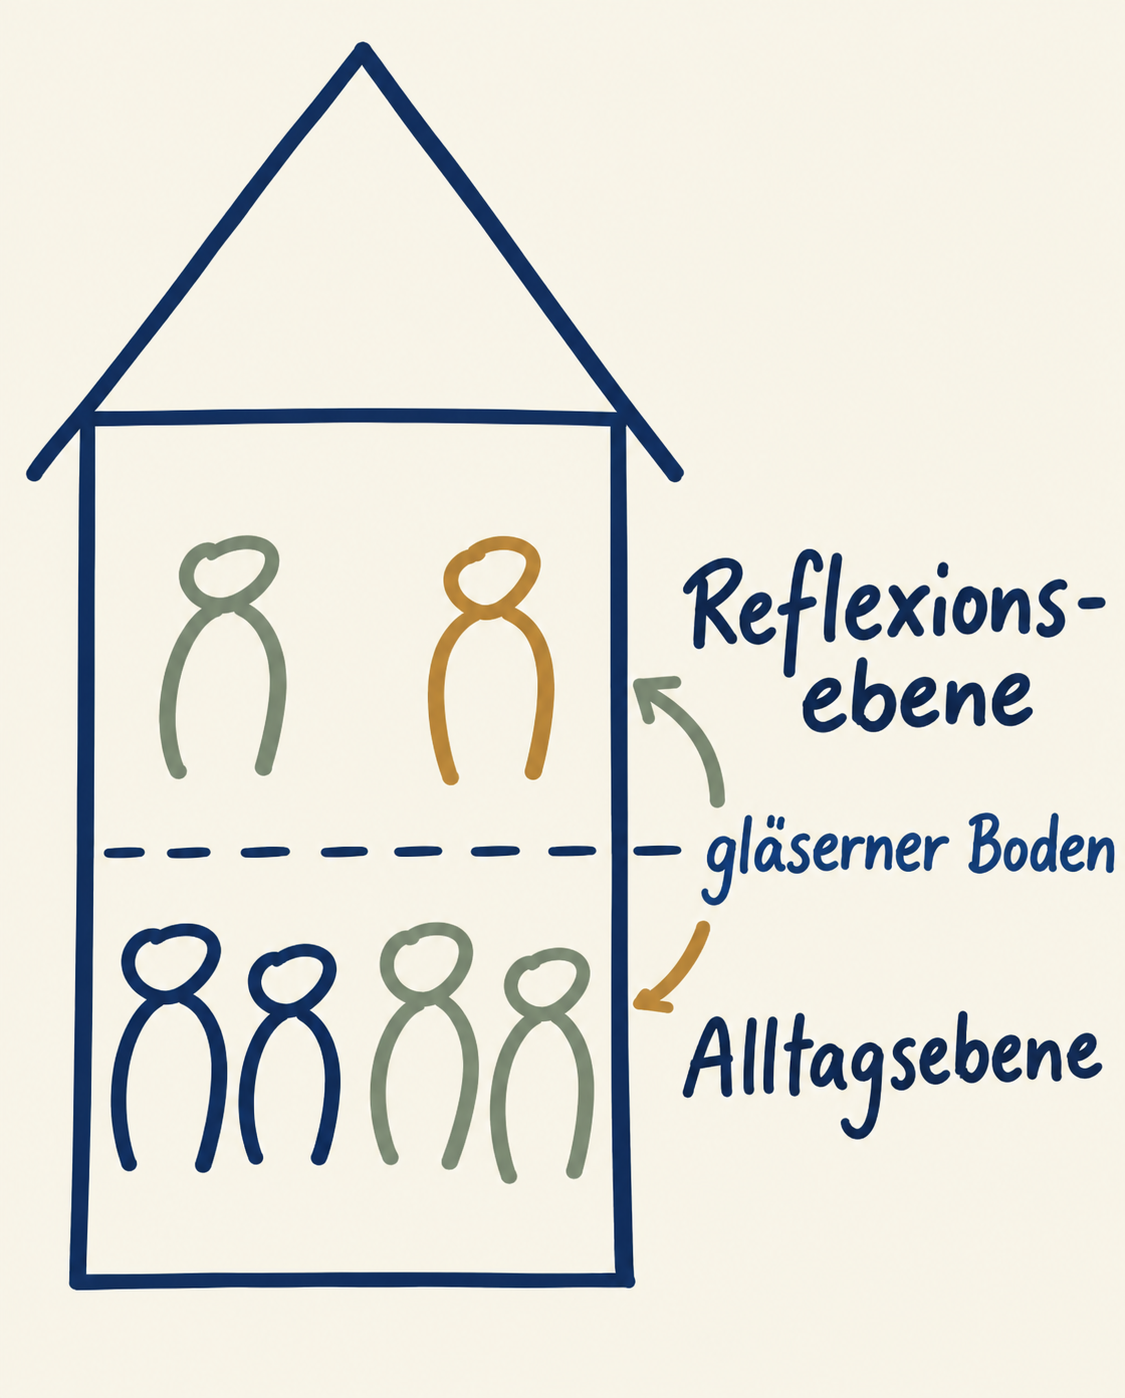
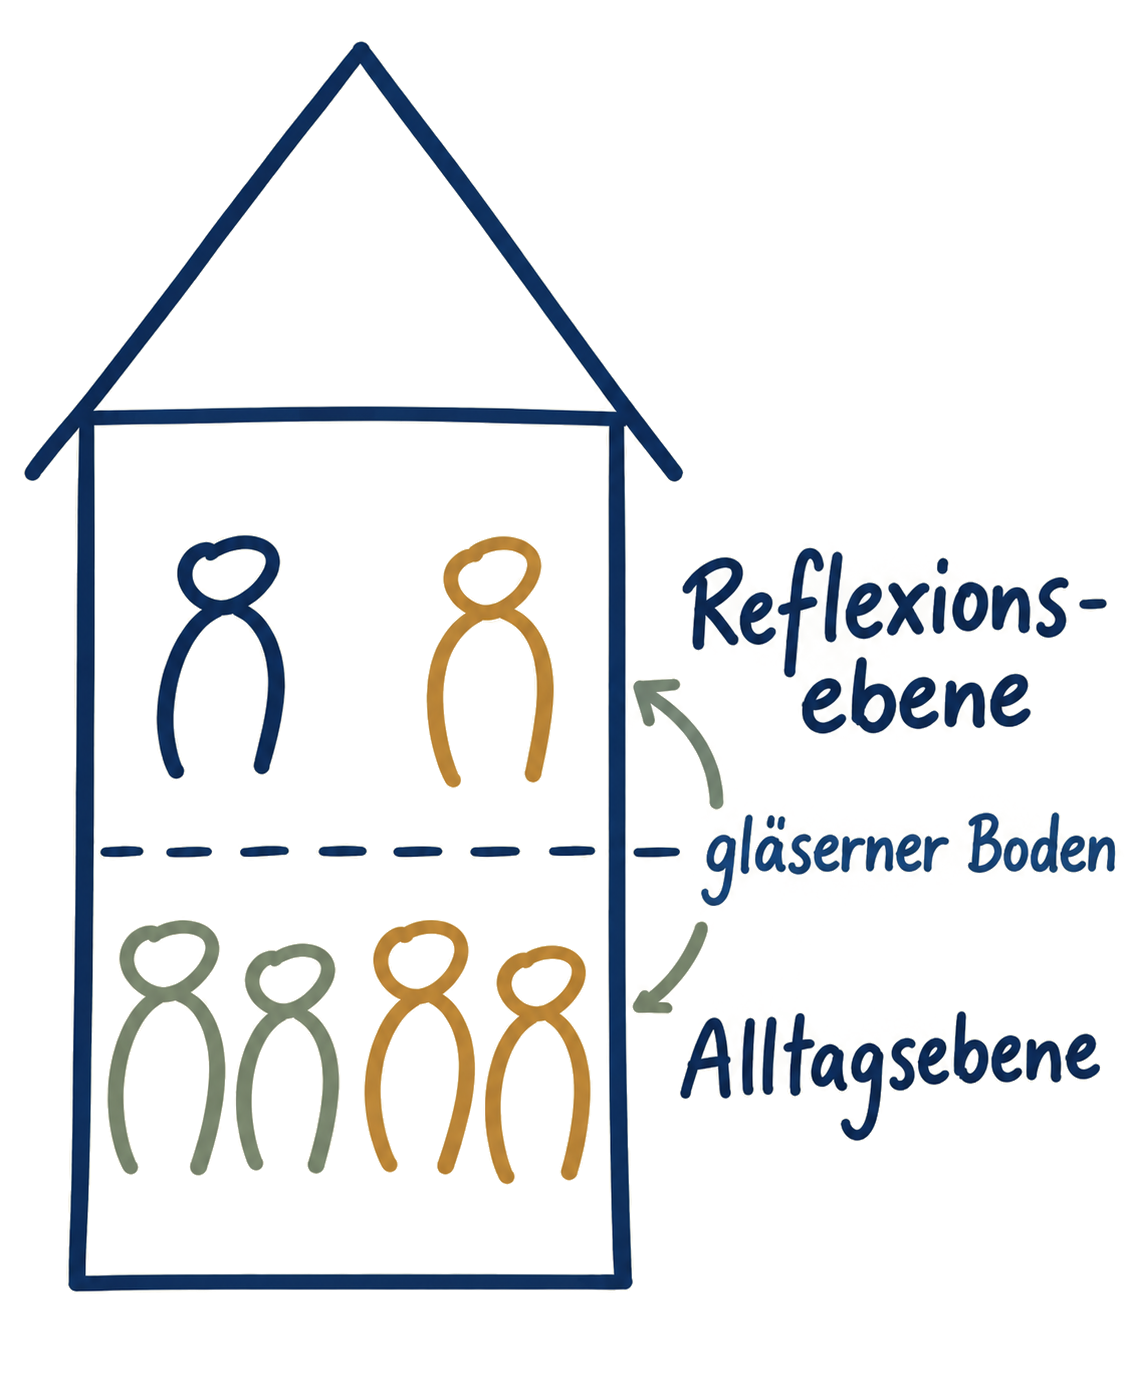
Coaching 09

diff --git a/src/assets/css/style.css b/src/assets/css/style.css
@@ -1145,14 +1145,16 @@ body.on-contact .snap-dots button.is-active{background:#cdd8cb;}
    Spezifität wie .sv-worum-a p, daher zusätzlich über die Klasse selbst
    qualifiziert, damit margin-top zuverlässig greift. */
 .sv-worum-a p.sv-worum-last{margin-top:18px;}
-/* Kleiner weißer Rahmen in der Rechteckform des Fotos (statt einer
-   größeren Kartenfläche mit Hintergrund) -- die Box umschließt das Bild
-   eng (display:inline-block, justify-self:center), die Bildgröße steuert
-   allein die Höhe von .sv-haus-card img je Breakpoint. */
+/* Ehemals ein weißer Kartenrahmen (Hintergrund/Padding/Box-Shadow) um das
+   Bild -- passend, solange die Grafik selbst einen undurchsichtigen
+   Hintergrund hatte. Die Haus-Grafik ist jetzt eine freigestellte PNG mit
+   echter Transparenz (wie .sv-ebenen-img in Abschnitt 4), daher entfaellt
+   die Kartenoptik hier bewusst, damit sich das Bild randlos in den
+   Seitenhintergrund einfuegt. Die Box umschliesst das Bild weiterhin eng
+   (display:inline-block, justify-self:center), die Bildgroesse steuert
+   allein die Hoehe von .sv-haus-card img je Breakpoint. */
 .sv-haus-card{
   display:inline-block;justify-self:center;max-width:100%;
-  background:var(--card);border-radius:14px;padding:8px;
-  box-shadow:0 20px 40px -22px rgba(20,20,20,.35);
 }
 /* Bildbox exakt um 90° gedreht auf Abschnitt-1-Größe gebracht: Abschnitt 1
    (Hero, Querformat) ist jetzt auf jeder Breite calc(37.8vw - 18px) breit
@@ -1170,7 +1172,7 @@ body.on-contact .snap-dots button.is-active{background:#cdd8cb;}
    Ränder oben/unten, ähnlich knapp wie links/rechts. Die Beschriftungen
    (Reflexionsebene, gläserner Boden, Alltagsebene) rechts im Bild bleiben
    dadurch weiterhin unbeschnitten sichtbar. */
-.sv-haus-card img{display:block;width:56.25vw;height:auto;aspect-ratio:1125/1398;object-fit:contain;border-radius:8px;}
+.sv-haus-card img{display:block;width:56.25vw;height:auto;aspect-ratio:1125/1398;object-fit:contain;}
 /* Bildunterschrift für die Haus-Grafik, im gleichen Stil wie bei den
    anderen Grafiken (.sv-ebenen-credit, .co-twocol-caption): kleine kursive
    Box mit dünnem Rahmen, mittig unter dem Bild. .sv-haus-card ist (anders
@@ -1194,9 +1196,24 @@ body.on-contact .snap-dots button.is-active{background:#cdd8cb;}
     display:grid;grid-template-columns:1.3fr 1fr;column-gap:56px;row-gap:16px;align-items:center;
     grid-template-areas:"top img" "bottom img";
   }
-  .sv-worum-text-top{grid-area:top;}
+  .sv-worum-text-top{grid-area:top;
+    /* align-items:center (oben) zentriert Grid-Items standardmaessig
+       innerhalb ihrer Zeile. Da die Bildspalte (img) beide Zeilen
+       ueberspannt und hoeher ist als Ueberschrift+Text zusammen, werden
+       Zeile 1 (top) und Zeile 2 (bottom) automatisch aufgebläht, damit
+       beide zusammen die Bildhoehe ergeben -- der zentrierte Text
+       "schwimmt" dadurch mit Luft ueber und unter sich in seiner Zeile,
+       wodurch der eigentlich beabsichtigte 16px-Abstand (row-gap, siehe
+       unten) real auf ca. 49px anwuchs. Fix: dieses Element an den
+       UNTEREN Rand seiner Zeile andocken, damit nur noch der row-gap
+       zaehlt. */
+    align-self:end;
+  }
   .sv-haus-card{grid-area:img;}
-  .sv-worum-text-bottom{grid-area:bottom;}
+  .sv-worum-text-bottom{grid-area:bottom;
+    /* Gegenstueck zu oben: an den OBEREN Rand der Zeile andocken. */
+    align-self:start;
+  }
   .sv-haus-card img{width:calc(23.625vw - 11.25px);}
   /* Abstand Überschrift->Text auf denselben Wert wie Eyebrow->Überschrift
      (16px) verkürzt: der bisherige Abstand kam aus margin-bottom (20px)
@@ -1501,9 +1518,17 @@ body.on-contact .snap-dots button.is-active{background:#cdd8cb;}
     display:grid;grid-template-columns:1.3fr 1fr;column-gap:56px;row-gap:16px;align-items:center;
     grid-template-areas:"top img" "bottom img";
   }
-  .co-worum-text-top{grid-area:top;}
+  .co-worum-text-top{grid-area:top;
+    /* siehe ausfuehrlichen Kommentar bei .sv-worum-text-top: align-items:
+       center blaeht sonst beide Text-Zeilen auf Bildhoehe auf und
+       zentriert den (kuerzeren) Text darin, wodurch der beabsichtigte
+       16px-Abstand zur naechsten Zeile real auf ca. 49px anwaechst. */
+    align-self:end;
+  }
   .co-haus-card{grid-area:img;}
-  .co-worum-text-bottom{grid-area:bottom;}
+  .co-worum-text-bottom{grid-area:bottom;
+    align-self:start;
+  }
   .co-haus-card img,
   .co-haus-card .img-placeholder{width:calc(23.625vw - 11.25px);}
   /* Abstand Überschrift->Text auf denselben Wert wie Eyebrow->Überschrift
